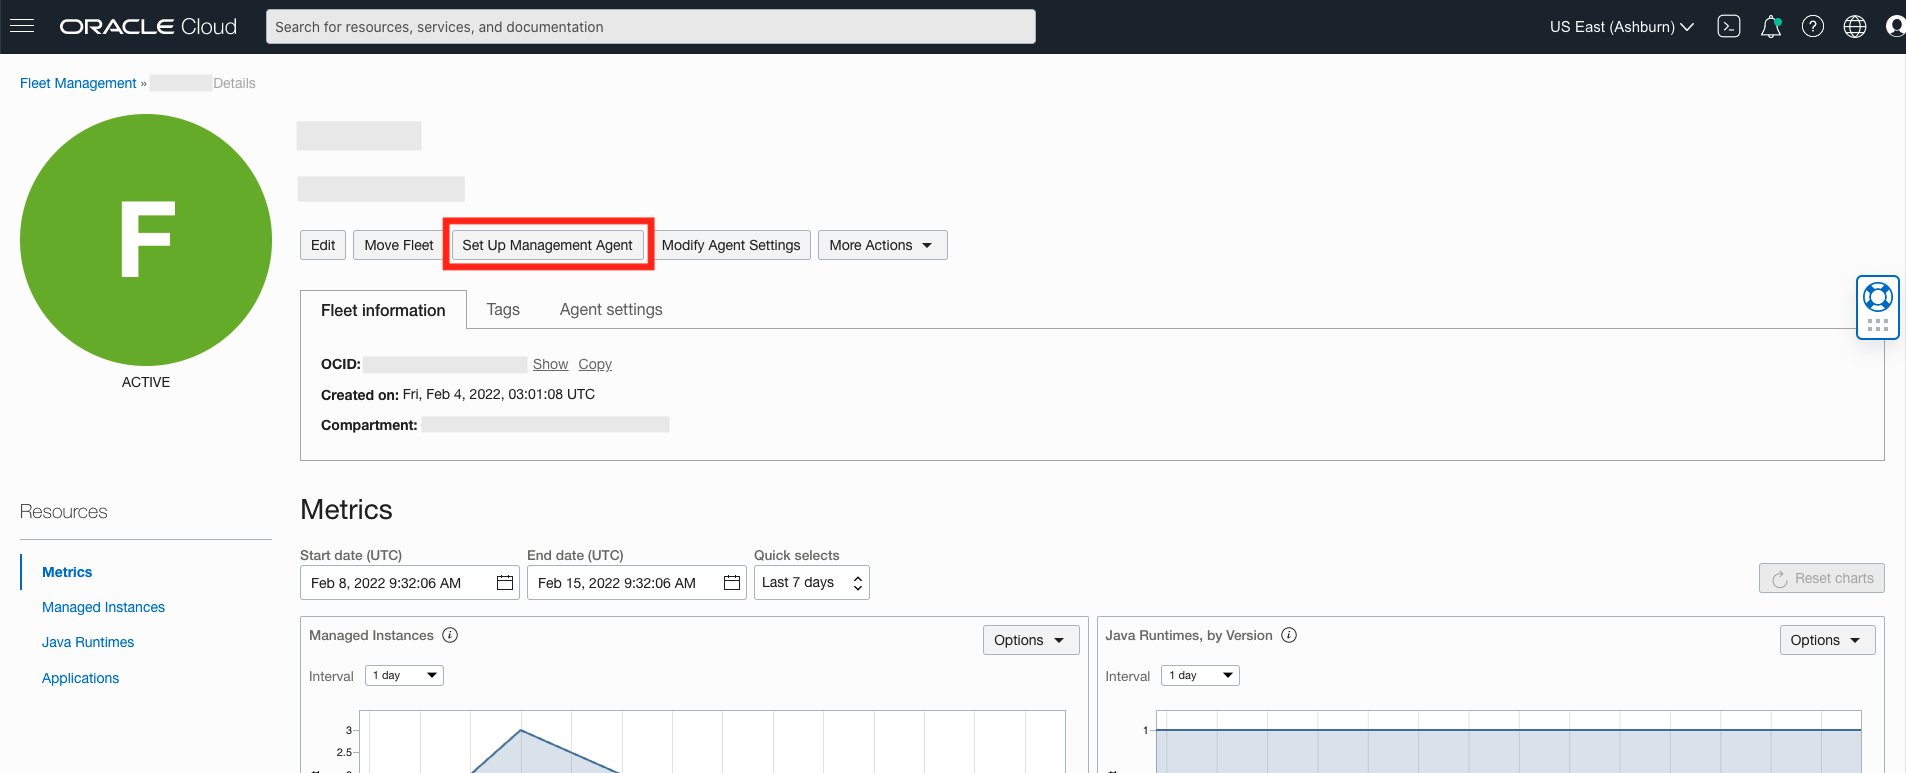
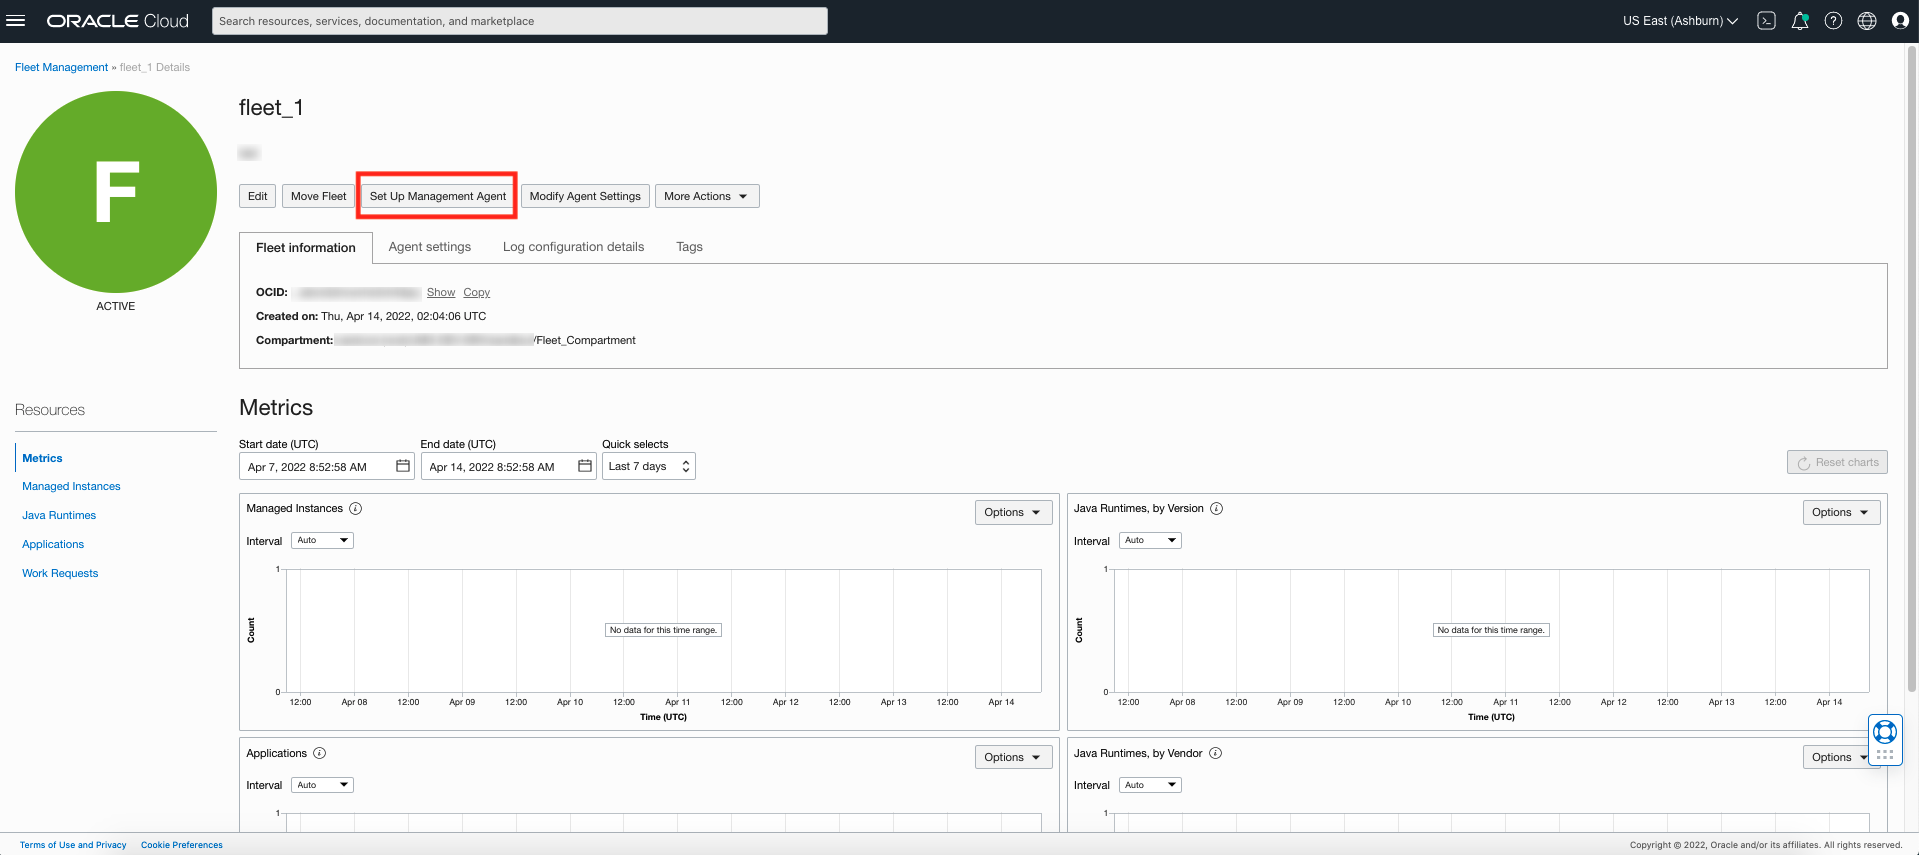
fixed screenshots for lab 4567

diff --git a/oci-library/oci-hol/java-management/understand-concepts-related-to-management-agent/understand-concepts-related-to-management-agent.md b/oci-library/oci-hol/java-management/understand-concepts-related-to-management-agent/understand-concepts-related-to-management-agent.md
@@ -5,14 +5,15 @@
 This lab walks you through the key concepts that need to be understood before installing a management agent on your compute instance host as part of the set up for Java Management Service (JMS).
 
 If you are using **non-OCI hosts** such as on-premises hosts, or hosts in the Cloud, the management agent can be installed using the RPM (Red Hat Package Manager) only. Please refer to the following segments:
- * [Task 1: Understand concepts related To Management Agent installation on non-OCI hosts](?lab=understand-concepts-related-to-management-agent#task1understandconceptsrelatedtomanagementagentinstallationonnonocihosts)
- * [Install Management Agent on non-OCI Hosts - Linux](?lab=set-up-of-management-agent-linux)
- * [Install Management Agent on non-OCI Hosts - Windows](?lab=set-up-of-management-agent-windows)
+
+- [Task 1: Understand concepts related To Management Agent installation on non-OCI hosts](?lab=understand-concepts-related-to-management-agent#task1understandconceptsrelatedtomanagementagentinstallationonnonocihosts)
+- [Install Management Agent on non-OCI Hosts - Linux](?lab=set-up-of-management-agent-linux)
+- [Install Management Agent on non-OCI Hosts - Windows](?lab=set-up-of-management-agent-windows)
 
 If you are using **OCI Compute Instance hosts**, the management agent can be installed using either the RPM or the Oracle Cloud Agent (OCA). For installation using OCA, please refer to the following segments:
- * [Task 2: Understand Concepts Related To Management Agent Installation on OCI Compute Instance hosts](?lab=understand-concepts-related-to-management-agent#task2understandconceptsrelatedtomanagementagentinstallationonocicomputeinstancehosts)
- * [Install Management Agent on OCI-computes - Oracle Cloud Agent (OCA)](?lab=install-management-agent-oca)
 
+- [Task 2: Understand Concepts Related To Management Agent Installation on OCI Compute Instance hosts](?lab=understand-concepts-related-to-management-agent#task2understandconceptsrelatedtomanagementagentinstallationonocicomputeinstancehosts)
+- [Install Management Agent on OCI-computes - Oracle Cloud Agent (OCA)](?lab=install-management-agent-oca)
 
 Estimated Time: 15 minutes
 
@@ -20,31 +21,31 @@ Estimated Time: 15 minutes
 
 In this lab, you will:
 
-* Understand important concepts in preparation for installation of Management agents on non-OCI hosts that are either on-premises or in the Cloud
-* Understand important concepts in preparation for installation of Management agents on OCI Compute Instance hosts
+- Understand important concepts in preparation for installation of Management agents on non-OCI hosts that are either on-premises or in the Cloud
+- Understand important concepts in preparation for installation of Management agents on OCI Compute Instance hosts
 
 ### Prerequisites
 
-* You have signed up for an account with Oracle Cloud Infrastructure and have received your sign-in credentials.
-* You are using an Oracle Linux image on your host machine or compute instance for this workshop.
-* Access to the cloud environment and resources configured in Lab 2
-
+- You have signed up for an account with Oracle Cloud Infrastructure and have received your sign-in credentials.
+- You are using an Oracle Linux image on your host machine or compute instance for this workshop.
+- Access to the cloud environment and resources configured in [Lab 2](?lab=setup-a-fleet).
 
 ## Task 1: Understand concepts related to Management Agent installation on non-OCI hosts
 
 Before the set up of the Management Agent, it is important to understand the concepts behind the Java Management Service:
 
-* **Java Management Service (JMS)**: A reporting and management infrastructure integrated with Oracle Cloud Infrastructure Platform services to observe and manage your use of Java SE (on-premises or in the Cloud). It enables you to observe and manage the use of Java in your enterprise.
+- **Java Management Service (JMS)**: A reporting and management infrastructure integrated with Oracle Cloud Infrastructure Platform services to observe and manage your use of Java SE (on-premises or in the Cloud). It enables you to observe and manage the use of Java in your enterprise.
 
-* **Management Agents**: Can be installed on a host to allow a service plug-in to collect data from the host where you installed the Management Agent. In the case of JMS, the management agent allows the JMS plug-in to collect data about Java Applications, Java Runtimes and Installations from the host which can be either on-premises or in the Cloud. If you are using a **non-OCI compute instance**, we will need a **response file** to set up a Management Agent. This response file contains an **install key**.
+- **Management Agents**: Can be installed on a host to allow a service plug-in to collect data from the host where you installed the Management Agent. In the case of JMS, the management agent allows the JMS plug-in to collect data about Java Applications, Java Runtimes and Installations from the host which can be either on-premises or in the Cloud. If you are using a **non-OCI compute instance**, we will need a **response file** to set up a Management Agent. This response file contains an **install key**.
 
-
-* **Install Key**: A token required by the **Management Agent** installation. It authorises the Management Agent to communicate with the Oracle Cloud Infrastructure. You can use a single agent install key for multiple Management Agent installations.
-This key has been automatically created for you in Lab 2, where the "Create New Management Agent Configuration" box was checked during Fleet creation.
+- **Install Key**: A token required by the **Management Agent** installation. It authorises the Management Agent to communicate with the Oracle Cloud Infrastructure. You can use a single agent install key for multiple Management Agent installations.
+  This key has been automatically created for you in [Lab 2](?lab=setup-a-fleet), where the "Create New Management Agent Configuration" box was checked during Fleet creation.
 
   ![image of create fleet options page](/../images/create-fleet.png)
 
-* **Response File**: For Management Agent installation to take place, a response file is also required. In Lab 2, we clicked **Download Install Key** during the creation of our fleet. The file that we downloaded is the response file which contains the install key, as observed in the `ManagementAgentInstallKey` field. The line in our response file `Service.plugin.jms.download=true` will also download and enable the JMS plugin.
+- **Response File**: For Management Agent installation to take place, a response file is also required. In [Lab 2](?lab=setup-a-fleet), we clicked **Download Install Key** during the creation of our fleet. The file that we downloaded is the response file which contains the install key, as observed in the `ManagementAgentInstallKey` field. The line in our response file `Service.plugin.jms.download=true` will help to download and enable the JMS plugin for Java runtime discovery and reporting.
+
+  The line `Service.plugin.jm.download=true` will also help to download and enable the JMS plugin for Java runtime Lifecycle Management. Lifecycle Management is an advanced feature of JMS, and you may refer to the [Java Lifecycle Management with Java Management Service](../../java-management-lifecycle-management/workshops/freetier/index.html?lab=introduction/introduction) workshop to learn more about it.
 
   ![image of input rsp file](/../images/input-rsp-updated.png)
 
@@ -52,32 +53,34 @@ This key has been automatically created for you in Lab 2, where the "Create New 
 
 Before the set up of the Management Agent, it is important to understand the concepts behind the Java Management Service:
 
-* **Java Management Service (JMS)**: A reporting and management infrastructure integrated with Oracle Cloud Infrastructure Platform services to observe and manage your use of Java SE (on-premises or in the Cloud). It enables you to observe and manage the use of Java in your enterprise.
+- **Java Management Service (JMS)**: A reporting and management infrastructure integrated with Oracle Cloud Infrastructure Platform services to observe and manage your use of Java SE (on-premises or in the Cloud). It enables you to observe and manage the use of Java in your enterprise.
 
-* **Management Agents**: Can be installed on a host to allow a service plug-in to collect data from the host where you installed the Management Agent. In the case of JMS, the management agent allows the **Java Usage Tracking service plugin** to track your use of Java.
+- **Management Agents**: Can be installed on a host to allow a service plug-in to collect data from the host where you installed the Management Agent. In the case of JMS, the management agent allows the **Java Usage Tracking service plugin** to track your use of Java.
 
-* **Oracle Cloud Agent (OCA)**: A lightweight process that manages **OCA plugins** running on compute instances. When you are using compute instances, you can deploy Management Agents by using the Oracle Cloud Agent.
+- **Oracle Cloud Agent (OCA)**: A lightweight process that manages **OCA plugins** running on compute instances. When you are using compute instances, you can deploy Management Agents by using the Oracle Cloud Agent.
 
-    As part of the set up of JMS on an OCI compute instance, the Management Agent will be deployed through the **Management Agent plugin** in OCA.
-    ![image of oca with management agent plugin](/../images/oca-management-agent-plugin.png)
+  As part of the set up of JMS on an OCI compute instance, the Management Agent will be deployed through the **Management Agent plugin** in OCA.
+  In addition, it is important to note that the **Oracle Java Management Service OCA plugin** is responsible for enabling Java runtime Lifecycle Management, which is an advanced feature of JMS. This workshop will focuis on the basics of JMS, and thus focus on only the Management Agent OCA plugin. If you would like to learn more about the Lifecycle Management feature, you may refer to the [Java Lifecycle Management with Java Management Service](../../java-management-lifecycle-management/workshops/freetier/index.html?lab=introduction/introduction) workshop.
+  ![image of oca with management agent plugin](/../images/oca-plugins.png)
 
-* **Management Agent OCA plugin**: Helps to collect data from resources such as OSs, applications, and infrastructure resources for Oracle Cloud Infrastructure services that are integrated with Management Agent. Data can include observability, log, configuration, capacity, and health data.
+- **Management Agent OCA plugin**: Helps to collect data from resources such as OSs, applications, and infrastructure resources for Oracle Cloud Infrastructure services that are integrated with Management Agent. Data can include observability, log, configuration, capacity, and health data.
 
-* **Java Usage Tracking service plugin**: A Service Plugin allows Management Agents to interact with data sources and send the data back to the cloud service. In the case of the Java Usage Tracking service plugin, data about Java Applications, Java Runtimes and Installations is collected from the host which can be either on-premises or in the Cloud. It is important to note that this is a service plugin that is deployed to interact with the Management Agent, and is different from OCA plugins.
+- **Java Usage Tracking service plugin**: A Service Plugin allows Management Agents to interact with data sources and send the data back to the cloud service. In the case of the Java Usage Tracking service plugin, data about Java Applications, Java Runtimes and Installations is collected from the host which can be either on-premises or in the Cloud. It is important to note that this is a service plugin that is deployed to interact with the Management Agent, and is different from OCA plugins.
   ![image of java usage tracking service plugin](/../images/java-usage-tracking-service-plugin.png)
 
-You may now **proceed to the next lab**.
+  You may now **proceed to the next lab.**
 
 ## Want to Learn More?
-* Refer to the [Management Agent Concepts](https://docs.oracle.com/en-us/iaas/management-agents/doc/you-begin.html),
-[Configuring a Management Agent on an OCI Compute Instance](https://docs.oracle.com/en-us/iaas/jms/doc/agent-management.html), [Installation of Management Agents](https://docs.oracle.com/en-us/iaas/management-agents/doc/install-management-agent-chapter.html) and
-[JMS Plugin for Management Agents](https://docs.oracle.com/en-us/iaas/jms/doc/installing-management-agent-java-management-service.html) sections of the JMS documentation for more details.
 
-* Use the [Troubleshooting](https://docs.oracle.com/en-us/iaas/jms/doc/troubleshooting.html#GUID-2D613C72-10F3-4905-A306-4F2673FB1CD3) chapter for explanations on how to diagnose and resolve common problems encountered when installing or using Java Management Service.
+- Refer to the [Management Agent Concepts](https://docs.oracle.com/en-us/iaas/management-agents/doc/you-begin.html),
+  [Configuring a Management Agent on an OCI Compute Instance](https://docs.oracle.com/en-us/iaas/jms/doc/agent-management.html), [Installation of Management Agents](https://docs.oracle.com/en-us/iaas/management-agents/doc/install-management-agent-chapter.html) and
+  [JMS Plugin for Management Agents](https://docs.oracle.com/en-us/iaas/jms/doc/installing-management-agent-java-management-service.html) sections of the JMS documentation for more details.
 
-* If the problem still persists or if the problem you are facing is not listed, please refer to the [Getting Help and Contacting Support](https://docs.oracle.com/en-us/iaas/Content/GSG/Tasks/contactingsupport.htm) section or you may open a a support service request using the **Help** menu in the OCI console.
+- Use the [Troubleshooting](https://docs.oracle.com/en-us/iaas/jms/doc/troubleshooting.html#GUID-2D613C72-10F3-4905-A306-4F2673FB1CD3) chapter for explanations on how to diagnose and resolve common problems encountered when installing or using Java Management Service.
+
+- If the problem still persists or if the problem you are facing is not listed, please refer to the [Getting Help and Contacting Support](https://docs.oracle.com/en-us/iaas/Content/GSG/Tasks/contactingsupport.htm) section or you may open a a support service request using the **Help** menu in the OCI console.
 
 ## Acknowledgements
 
-* **Author** - Xin Yi Tay, Java Management Service
-* **Last Updated By** - Xin Yi Tay, April 2022
+- **Author** - Xin Yi Tay, Java Management Service
+- **Last Updated By** - Xin Yi Tay, April 2022

diff --git a/oci-library/oci-hol/java-management/set-up-of-management-agent-linux/set-up-of-management-agent-linux.md b/oci-library/oci-hol/java-management/set-up-of-management-agent-linux/set-up-of-management-agent-linux.md
@@ -21,7 +21,7 @@ In this lab, you will:
 
 * You have signed up for an account with Oracle Cloud Infrastructure and have received your sign-in credentials.
 * You are using an Oracle Linux image on your host machine or compute instance for this workshop.
-* Access to the cloud environment and resources configured in Lab 2
+* Access to the cloud environment and resources configured in [Lab 2](?lab=setup-a-fleet).
 
 ## Task 1: Prepare agent software and response file for Management Agent installation
 
@@ -129,11 +129,14 @@ Install Management Agent (If your host is Windows, skip to Lab 6: Install Manage
     	Generating communication wallet
     	Generating security artifacts
     	Registering Management Agent
-    		Found service plugin(s): [jms]
+    		Found service plugin(s): [jms, jm]
 
     Starting agent...
     Agent started successfully
 
+    Starting plugin deployment for: [jm]
+    Deploying service plugin(s)...Done.
+    	jm : Successfully deployed external plugin
     Starting plugin deployment for: [jms]
     Deploying service plugin(s)...Done.
     	jms : Successfully deployed service plugin
@@ -158,7 +161,7 @@ Install Management Agent (If your host is Windows, skip to Lab 6: Install Manage
 
   ![image of console navigation to access management agent overview](/../images/management-agent-overview.png)
 
-2. From the Agents list, look for the agent that was recently installed.
+2. From the Agents list, look for the agent that was recently installed. This Agent should be in the compartment created in [Lab 1](?lab=set-up-oci-for-jms).
 
     ![image of agents main page](/../images/agents-main-page-new.png)
 
@@ -231,8 +234,8 @@ Install Management Agent (If your host is Windows, skip to Lab 6: Install Manage
 ## Task 6: Verify detection of Java applications and runtimes
 For the logging of applications to be visible, Java applications must be run again after the installation of the Management Agent. Now that the Management Agent has been set up in your compute instance, it will be able to detect new Java applications that have been executed. This can be observed in the Oracle Cloud Console.
 
-We shall demonstrate the detection of the Java compiler and HelloWorld application created in Lab 2.
-1. First, re-compile the HelloWorld.java file:
+We shall demonstrate the detection of the Java compiler and HelloWorld application created in [Lab 3](?lab=deploy-a-java-application).
+1. First, compile the HelloWorld.java file:
 
     ```
     <copy>
@@ -256,7 +259,7 @@ We shall demonstrate the detection of the Java compiler and HelloWorld applicati
 
 4. Click **Java Runtimes** under **Resources**. If tagging and installation of management agents is successful, Java Runtimes will be indicated on the Fleet Main Page after 5 minutes.
 
-  You should see only one Java Runtime. This corresponds to the Java 8 installation from Lab 3.
+  You should see only one Java Runtime. This corresponds to the Java 8 installation from [Lab 3](?lab=deploy-a-java-application).
 
   ![image of successful installation](/../images/successful-installation.png)
 

diff --git a/oci-library/oci-hol/java-management/set-up-of-management-agent-windows/set-up-of-management-agent-windows.md b/oci-library/oci-hol/java-management/set-up-of-management-agent-windows/set-up-of-management-agent-windows.md
@@ -21,7 +21,7 @@ In this lab, you will:
 
 * You have signed up for an account with Oracle Cloud Infrastructure and have received your sign-in credentials.
 * You are using an Oracle Linux image on your host machine or compute instance for this workshop.
-* Access to the cloud environment and resources configured in Lab 2
+* Access to the cloud environment and resources configured in [Lab 2](?lab=setup-a-fleet).
 
 ## Task 1: Prepare agent software for Management Agent installation
 
@@ -206,10 +206,12 @@ Install Management Agent (If your host is Linux, skip to skip to Lab 5: Install 
 
 1. In the Oracle Cloud Console, open the navigation menu, click **Observability & Management**, and then click **Agents** under **Management Agent**.
 
-  ![image of console navigation to access management agent overview](/../images/agents-main-page-new.png)
+  ![image of console navigation to access management agent overview](/../images/management-agent-overview.png)
 
 
-2. From the Agents list, look for the agent that was recently installed.
+  2. From the Agents list, look for the agent that was recently installed. This Agent should be in the compartment created in [Lab 1](?lab=set-up-oci-for-jms).
+
+      ![image of agents main page](/../images/agents-main-page-new.png)
 
 
 ## Task 4: Configure Java Usage Tracker
@@ -315,7 +317,7 @@ Install Management Agent (If your host is Linux, skip to skip to Lab 5: Install 
 For the logging of applications to be visible, Java applications must be run again after the installation of the Management Agent. Now that the Management Agent has been set up in your compute instance, it will be able to detect new Java applications that have been executed. This can be observed in the Oracle Cloud Console.
 
 We shall demonstrate the detection of the Java compiler and HelloWorld application created in Lab 2.
-1. First, re-compile the HelloWorld.java file:
+1. First, compile the HelloWorld.java file:
 
     ```
     <copy>

diff --git a/oci-library/oci-hol/java-management/install-management-agent-oca/install-management-agent-oca.md b/oci-library/oci-hol/java-management/install-management-agent-oca/install-management-agent-oca.md
@@ -20,7 +20,7 @@ In this lab, you will:
 
 * You have signed up for an account with Oracle Cloud Infrastructure and have received your sign-in credentials.
 * You are using an Oracle Linux image on your host machine or compute instance for this workshop.
-* Access to the cloud environment and resources configured in Lab 2
+* Access to the cloud environment and resources configured in [Lab 2](?lab=setup-a-fleet).
 
 ## Task 1: Enable Management Agent Plugin on Compute Instances
 
@@ -104,7 +104,7 @@ Do not disturb the setup in this time and only proceed after the status of the M
 For the logging of applications to be visible, Java applications must be run again after the installation of the Management Agent. Now that the Management Agent has been set up in your compute instance, it will be able to detect new Java applications that have been executed. This can be observed in the Oracle Cloud Console.
 
 We shall demonstrate the detection of the Java compiler and HelloWorld application created in Lab 2.
-1. First, re-compile the HelloWorld.java file:
+1. First, compile the HelloWorld.java file:
 
     ```
     <copy>

diff --git a/oci-library/oci-hol/java-management/setup-a-fleet/setup-a-fleet.md b/oci-library/oci-hol/java-management/setup-a-fleet/setup-a-fleet.md
@@ -17,7 +17,7 @@ In this lab, you will:
 
 * You have signed up for an account with Oracle Cloud Infrastructure and have received your sign-in credentials.
 * You are using an Oracle Linux image on your host machine or compute instance for this workshop.
-* Access to the cloud environment and resources configured in Lab 2
+* Access to the cloud environment and resources configured in [Lab 2](?lab=setup-a-fleet).
 
 ## Task 1: Set Up Java Management Service Fleet
 

diff --git a/oci-library/oci-hol/java-management/track-java-usage-in-a-container/track-java-usage-in-a-container.md b/oci-library/oci-hol/java-management/track-java-usage-in-a-container/track-java-usage-in-a-container.md
@@ -23,7 +23,7 @@ In this lab, you will:
 
 ## Task 1: Install Docker on your compute instance
 
-The following steps will describe installation of Docker on a compute instance running Oracle Linux 7, which was covered in Lab 2.
+The following steps will describe installation of Docker on a compute instance running Oracle Linux 7, which was covered in [Lab 2](?lab=setup-a-fleet).
 
 1. Perform an SSH login into your OCI compute instance.
 
